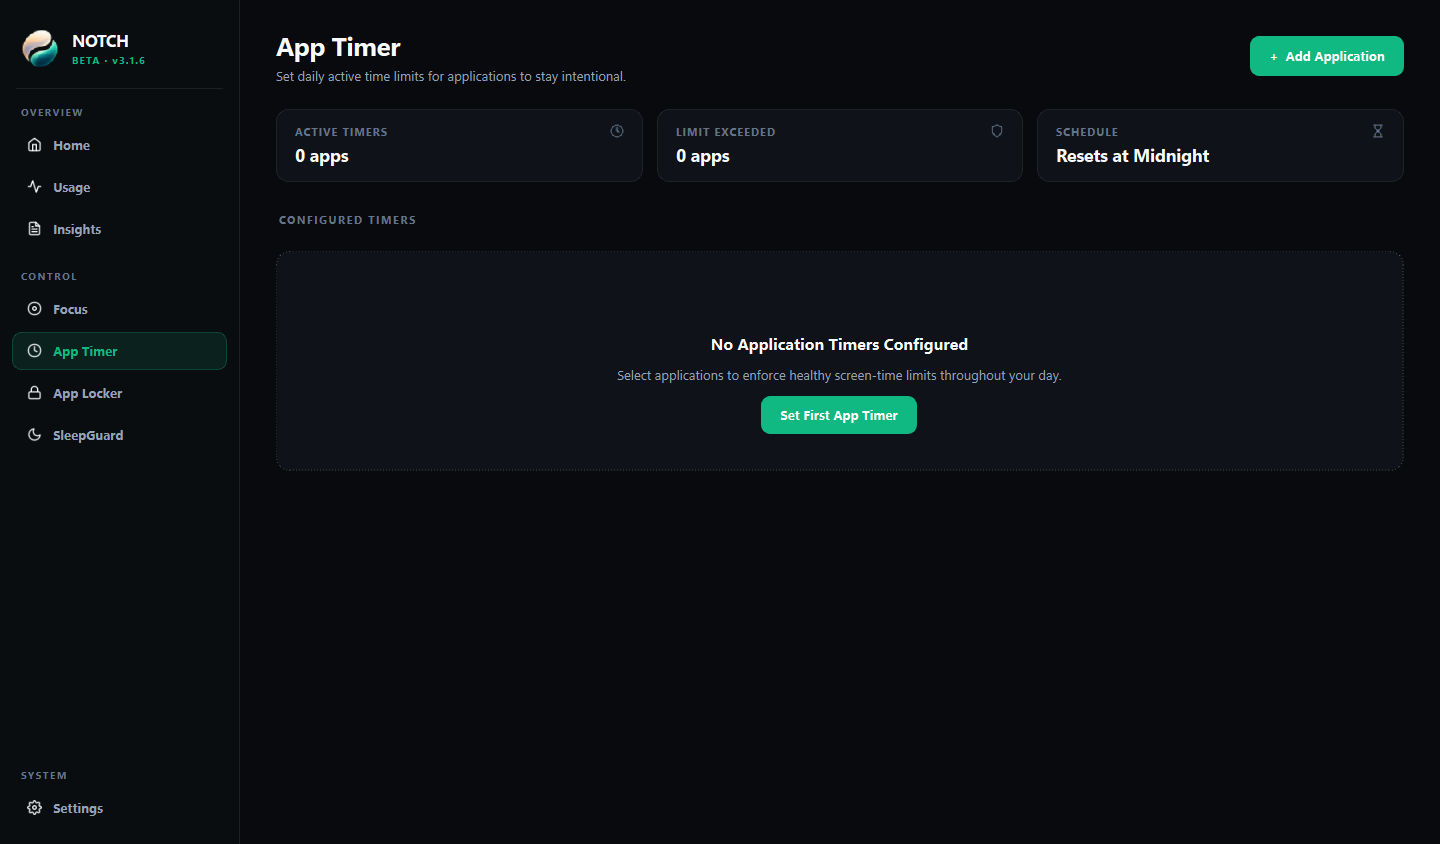
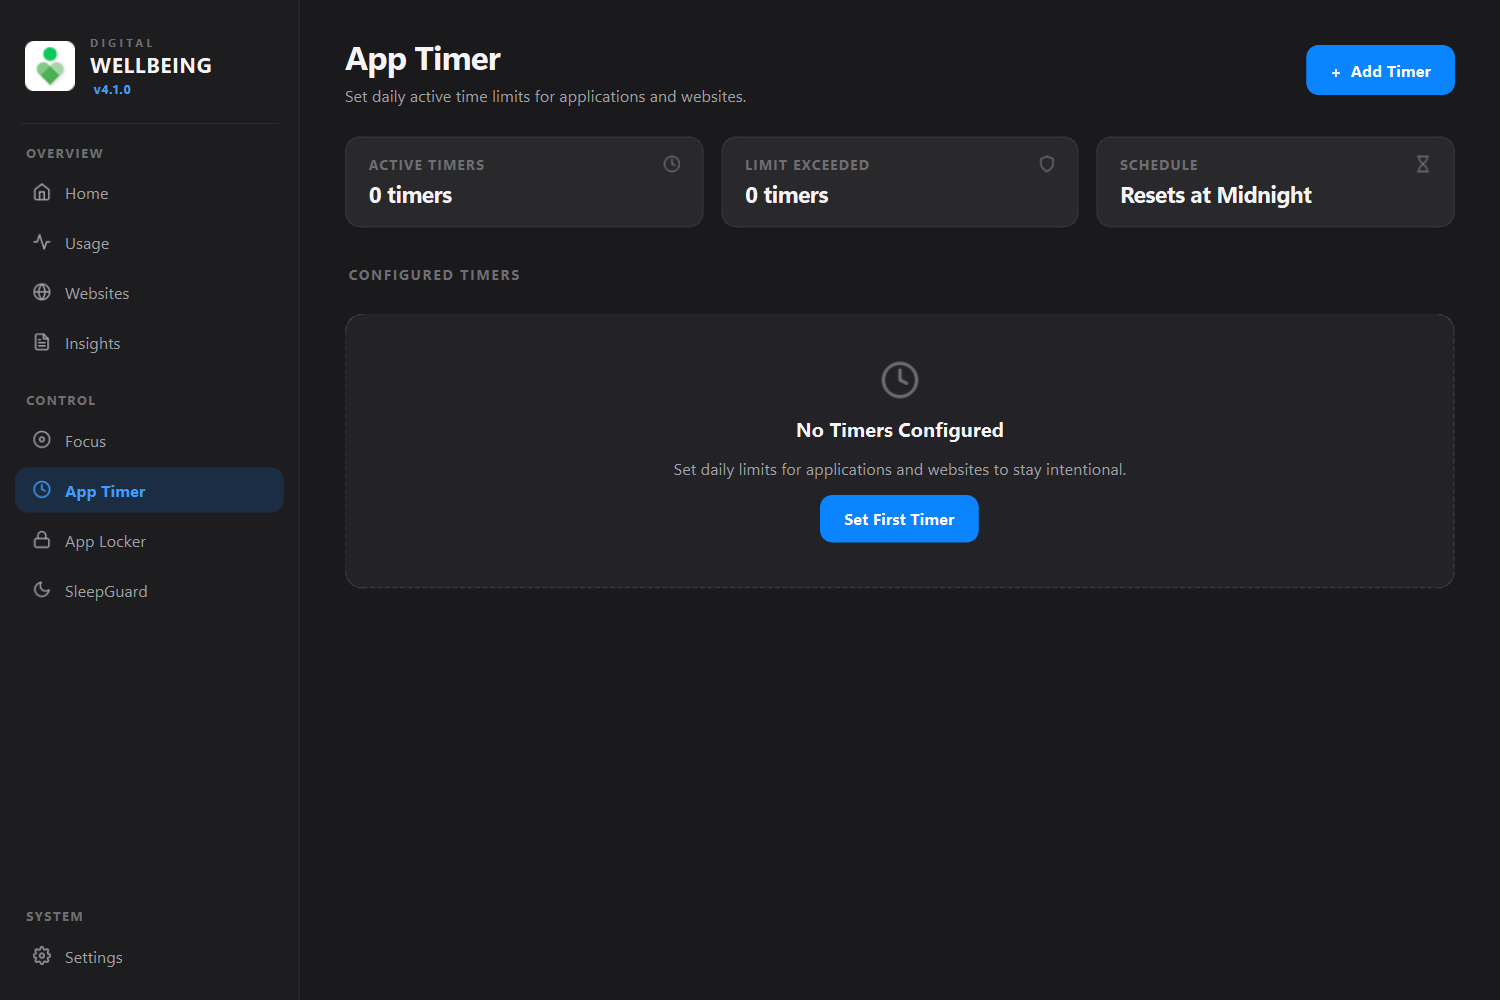
feat: refresh all screenshots with live v4.1.0 captures and modernize website rebrand & copywriting

diff --git a/website/src/app/page.tsx b/website/src/app/page.tsx
@@ -76,7 +76,7 @@ export default function Home() {
               {/* Category Pill Tag */}
               <div className="inline-flex items-center gap-2 px-3.5 py-1 rounded-full bg-slate-100/80 dark:bg-surface border border-slate-200 dark:border-border text-[11px] font-mono uppercase tracking-[0.2em] text-slate-800 dark:text-foreground/80 backdrop-blur-md">
                 <span className="w-1.5 h-1.5 rounded-full bg-dw-emerald animate-pulse" />
-                <span>Beta Release · Windows 10 & 11 (v3.1.6)</span>
+                <span>v4.1.0 "Aurora" · Windows 10 & 11 (64-bit)</span>
               </div>
 
               {/* Bold, Calm Headline */}
@@ -89,7 +89,7 @@ export default function Home() {
 
               {/* Subtext */}
               <p className="text-base sm:text-xl text-slate-700 dark:text-foreground/75 max-w-2xl mx-auto leading-relaxed font-normal">
-                Digital Wellbeing is an attention-control app for Windows. It removes digital clutter at the process level, leaving you with only the work that matters.
+                Digital Wellbeing is an Apple-grade digital wellbeing and attention-control system for Windows. It tracks your screen time, enforces boundaries, and filters the web — completely locally with zero telemetry.
               </p>
 
               {/* Primary Download CTA */}
@@ -103,7 +103,7 @@ export default function Home() {
                   <span>Download for Windows</span>
                 </a>
                 <p className="text-xs font-mono text-slate-600 dark:text-foreground/60">
-                  Windows 10 / 11 (64-bit) · ~73.5 MB installer · Free &amp; local-first
+                  Windows 10 / 11 (64-bit) · Inno Setup installer · Free &amp; local-first
                 </p>
               </div>
 
@@ -122,7 +122,7 @@ export default function Home() {
           <div className="container mx-auto px-6 max-w-5xl">
             <div className="text-center max-w-2xl mx-auto mb-10 space-y-3">
               <span className="text-[11px] font-mono tracking-[0.2em] text-dw-emerald uppercase font-semibold">
-                NATIVE OS INTEGRATION · v3.1.6
+                AURORA DESIGN SYSTEM · v4.1.0
               </span>
               <h2 className="text-3xl md:text-5xl font-bold tracking-tight text-slate-900 dark:text-foreground">
                 A calm, silent presence on Windows.
@@ -143,7 +143,7 @@ export default function Home() {
                 }`}
               >
                 <Moon className="w-3.5 h-3.5 text-indigo-400" />
-                <span>Dark Obsidian</span>
+                <span>Aurora Dark</span>
               </button>
               <button
                 onClick={() => setHeroTheme("light")}
@@ -154,7 +154,7 @@ export default function Home() {
                 }`}
               >
                 <Sun className="w-3.5 h-3.5 text-dw-amber" />
-                <span>Light Theme</span>
+                <span>Aurora Light</span>
               </button>
             </div>
 
@@ -188,7 +188,7 @@ export default function Home() {
                   <Cpu className="w-3.5 h-3.5 text-dw-emerald" />
                   <span>Sub-25MB RAM Footprint · 0% Idle CPU Usage</span>
                 </div>
-                <span>Native Windows Mica Acrylic Foundation · {heroTheme === "dark" ? "Dark Obsidian" : "Light Theme"}</span>
+                <span>Apple-grade Aurora Design Tokens · {heroTheme === "dark" ? "Aurora Dark" : "Aurora Light"}</span>
               </div>
             </div>
           </div>
@@ -309,7 +309,7 @@ export default function Home() {
                   <span className="text-slate-700 dark:text-foreground/75 ml-2 font-normal hidden md:inline">{themeScreens[themeSectionScreen].desc}</span>
                 </div>
                 <span className="font-mono text-slate-600 dark:text-foreground/65 text-[11px]">
-                  Windows Desktop Application · {themeSectionMode === "dark" ? "Dark Obsidian" : "Light Theme"}
+                  Windows Desktop Application · {themeSectionMode === "dark" ? "Aurora Dark" : "Aurora Light"}
                 </span>
               </div>
             </div>
@@ -458,7 +458,7 @@ export default function Home() {
                 <span>Download for Windows</span>
               </a>
               <p className="text-[11px] font-mono text-slate-600 dark:text-foreground/65 font-medium">
-                Windows 10 / Windows 11 (64-bit) · Independent Software · v3.1.6
+                Windows 10 / Windows 11 (64-bit) · Independent Software · v4.1.0 "Aurora"
               </p>
             </div>
           </div>

diff --git a/website/src/components/interactive/capabilities-canvas.tsx b/website/src/components/interactive/capabilities-canvas.tsx
@@ -51,8 +51,8 @@ const TABS: CapabilityTab[] = [
     summary:
       "Set daily usage allowances on distracting software with fast 15m, 30m, 1h, 2h, or custom hour/minute presets. When your limit is reached, the app is gracefully suspended and your focus is preserved without abrupt crashes.",
     icon: Hourglass,
-    screenshot: "/images/app/app-timer-config-dark.png",
-    screenshotCaption: "App Timer quota configuration modal with instant time presets",
+    screenshot: "/images/app/app-timer-dark.png",
+    screenshotCaption: "App Timer daily quota configuration and active limits",
   },
   {
     id: "locker",
@@ -62,8 +62,8 @@ const TABS: CapabilityTab[] = [
     summary:
       "Lock Telegram, Discord, Steam, or sensitive work tools behind facial recognition, fingerprint, or a custom PIN. Launches are intercepted in milliseconds, strictly isolated from App Timer.",
     icon: ShieldAlert,
-    screenshot: "/images/app/authentication-dark.png",
-    screenshotCaption: "Hardware-backed Windows Hello PIN authentication modal",
+    screenshot: "/images/app/app-locker-dark.png",
+    screenshotCaption: "App Locker interface with Windows Hello biometric authentication",
   },
   {
     id: "sleepguard",
@@ -73,8 +73,8 @@ const TABS: CapabilityTab[] = [
     summary:
       "If you fall asleep while watching media late at night, SleepGuard detects genuine inactivity and automatically suspends your PC with a single unified, gentle audio-visual countdown dialog.",
     icon: Moon,
-    screenshot: "/images/app/sleepguard-countdown-dark.png",
-    screenshotCaption: "Unified SleepGuard inactivity countdown dialog with cancel protection",
+    screenshot: "/images/app/sleepguard-dark.png",
+    screenshotCaption: "SleepGuard schedule controls and inactivity power actions",
   },
   {
     id: "usage",

diff --git a/website/src/__tests__/download.test.ts b/website/src/__tests__/download.test.ts
@@ -41,21 +41,21 @@ describe('Public Release & Distribution System', () => {
     );
   });
 
-  it('3. /api/stats returns accurate project metadata and Public Beta stage', async () => {
+  it('3. /api/stats returns accurate project metadata and Public Release stage', async () => {
     const response = await statsRoute();
     assert.equal(response.status, 200);
 
     const data = await response.json();
     assert.equal(data.project, 'Digital Wellbeing for Windows');
-    assert.equal(data.version, '3.1.6');
-    assert.equal(data.stage, 'Public Beta');
+    assert.equal(data.version, '4.1.0');
+    assert.equal(data.stage, 'Public Release');
     assert.equal(data.architecture, 'Local-First, Zero Cloud Sync, No Telemetry');
   });
 
-  it('4. siteConfig is aligned with Public Beta v3.1.6', () => {
+  it('4. siteConfig is aligned with Public Release v4.1.0', () => {
     assert.equal(siteConfig.name, 'Digital Wellbeing');
-    assert.equal(siteConfig.version, '3.1.6');
-    assert.equal(siteConfig.stage, 'Public Beta');
+    assert.equal(siteConfig.version, '4.1.0');
+    assert.equal(siteConfig.stage, 'Public Release');
     assert.equal(
       siteConfig.links.releases,
       'https://github.com/princechouhan19/Digital-Wellbeing-PC/releases'

diff --git a/website/src/components/layout/navbar.tsx b/website/src/components/layout/navbar.tsx
@@ -53,7 +53,7 @@ export function Navbar() {
             DIGITAL WELLBEING
           </span>
           <span className="hidden sm:inline-block text-[10px] uppercase font-mono tracking-widest px-2 py-0.5 rounded-full bg-slate-200/80 dark:bg-white/[0.06] text-slate-700 dark:text-foreground/70 border border-slate-300/80 dark:border-white/[0.08]">
-            Beta
+            v4.1.0
           </span>
         </Link>
 

diff --git a/website/src/app/api/stats/route.ts b/website/src/app/api/stats/route.ts
@@ -5,8 +5,8 @@ export const revalidate = 86400; // Cache for 24 hours
 export async function GET() {
   return NextResponse.json({
     project: 'Digital Wellbeing for Windows',
-    version: '3.1.6',
-    stage: 'Public Beta',
+    version: '4.1.0',
+    stage: 'Public Release',
     architecture: 'Local-First, Zero Cloud Sync, No Telemetry',
   });
 }

diff --git a/tools/capture_all_screenshots.py b/tools/capture_all_screenshots.py
@@ -1,0 +1,151 @@
+"""
+tools/capture_all_screenshots.py
+Captures updated, pixel-perfect screenshots of all Digital Wellbeing pages
+for both README.md and the website.
+"""
+
+import sys
+import os
+import time
+from pathlib import Path
+
+# Add project root to sys.path
+root_dir = Path(__file__).resolve().parent.parent
+sys.path.insert(0, str(root_dir))
+os.environ["DW_TEST_MODE"] = "1"
+os.environ["PYTHONIOENCODING"] = "utf-8"
+
+from PySide6.QtWidgets import QApplication
+from PySide6.QtCore import Qt, QTimer
+from PySide6.QtGui import QPixmap
+
+from ui.theme import ThemeManager
+from ui.main_window import MainWindow
+from ui.onboarding import OnboardingFlow
+from settings.manager import SettingsManager
+
+def capture_all():
+    app = QApplication.instance() or QApplication(sys.argv)
+    
+    docs_ss_dir = root_dir / "docs" / "screenshots"
+    web_ss_dir = root_dir / "website" / "public" / "images" / "app"
+    docs_ss_dir.mkdir(parents=True, exist_ok=True)
+    web_ss_dir.mkdir(parents=True, exist_ok=True)
+    
+    # Ensure display name is friendly
+    sm = SettingsManager()
+    if not sm.display_name or sm.display_name == "Unknown":
+        sm.display_name = "Prince"
+        
+    win = MainWindow(tracker=None)
+    win.resize(1200, 800)
+    win.show()
+    
+    def process(duration=0.3):
+        start = time.time()
+        while time.time() - start < duration:
+            app.processEvents()
+            time.sleep(0.02)
+
+    # -------------------------------------------------------------
+    # 1. Dark Mode Screenshots
+    # -------------------------------------------------------------
+    print("Capturing Dark Mode pages...")
+    ThemeManager.instance().set_theme("dark")
+    win._apply_theme(True)
+    process(0.5)
+    
+    pages = [
+        (0, "dark_dashboard.png", "home-dark.png"),
+        (1, "dark_activity.png", "usage-dark.png"),
+        (2, "dark_focus.png", "focus-dark.png"),
+        (3, "dark_app_locker.png", "app-locker-dark.png"),
+        (4, "dark_app_timer.png", "app-timer-dark.png"),
+        (5, "dark_insights.png", "insights-dark.png"),
+        (6, "dark_sleepguard.png", "sleepguard-dark.png"),
+        (8, "dark_settings.png", "settings-dark.png"),
+        (12, "dark_websites.png", None),
+    ]
+    
+    for idx, docs_name, web_name in pages:
+        win._navigate(idx)
+        process(0.4)
+        
+        pix = win.grab()
+        if docs_name:
+            out_path = docs_ss_dir / docs_name
+            pix.save(str(out_path))
+            print(f"Saved: {out_path}")
+        if web_name:
+            out_path = web_ss_dir / web_name
+            pix.save(str(out_path))
+            print(f"Saved: {out_path}")
+            
+    # Capture SafeBrowse by scrolling Settings
+    win._navigate(8)
+    process(0.2)
+    if hasattr(win._settings_page, "_scroll") and win._settings_page._scroll:
+        scroll = win._settings_page._scroll
+        scroll.verticalScrollBar().setValue(380)
+        process(0.3)
+        pix = win.grab()
+        safebrowse_path = docs_ss_dir / "safebrowse_dark.png"
+        pix.save(str(safebrowse_path))
+        print(f"Saved: {safebrowse_path}")
+
+    # -------------------------------------------------------------
+    # 2. Light Mode Screenshots
+    # -------------------------------------------------------------
+    print("\nCapturing Light Mode pages...")
+    ThemeManager.instance().set_theme("light")
+    win._apply_theme(False)
+    process(0.5)
+    
+    light_pages = [
+        (0, "light_dashboard.png", "home-light.png"),
+        (1, "light_activity.png", "usage-light.png"),
+        (2, "light_focus.png", "focus-light.png"),
+        (3, "light_app_locker.png", "app-locker-light.png"),
+        (4, "light_app_timer.png", "app-timer-light.png"),
+        (5, "light_insights.png", "insights-light.png"),
+        (6, "light_sleepguard.png", "sleepguard-light.png"),
+        (8, "light_settings.png", "settings-light.png"),
+    ]
+    
+    for idx, docs_name, web_name in light_pages:
+        win._navigate(idx)
+        process(0.4)
+        
+        pix = win.grab()
+        if docs_name:
+            out_path = docs_ss_dir / docs_name
+            pix.save(str(out_path))
+            print(f"Saved: {out_path}")
+        if web_name:
+            out_path = web_ss_dir / web_name
+            pix.save(str(out_path))
+            print(f"Saved: {out_path}")
+
+    win.close()
+    process(0.2)
+    
+    # -------------------------------------------------------------
+    # 3. Onboarding Wizard Screenshot
+    # -------------------------------------------------------------
+    print("\nCapturing Onboarding Wizard...")
+    ThemeManager.instance().set_theme("dark")
+    wizard = OnboardingFlow()
+    wizard.show()
+    process(0.5)
+    
+    wizard_pix = wizard.grab()
+    onboarding_path = docs_ss_dir / "onboarding_dark.png"
+    wizard_pix.save(str(onboarding_path))
+    print(f"Saved: {onboarding_path}")
+    wizard.close()
+    process(0.2)
+    
+    print("\n[SUCCESS] All screenshots updated successfully!")
+
+if __name__ == "__main__":
+    capture_all()
